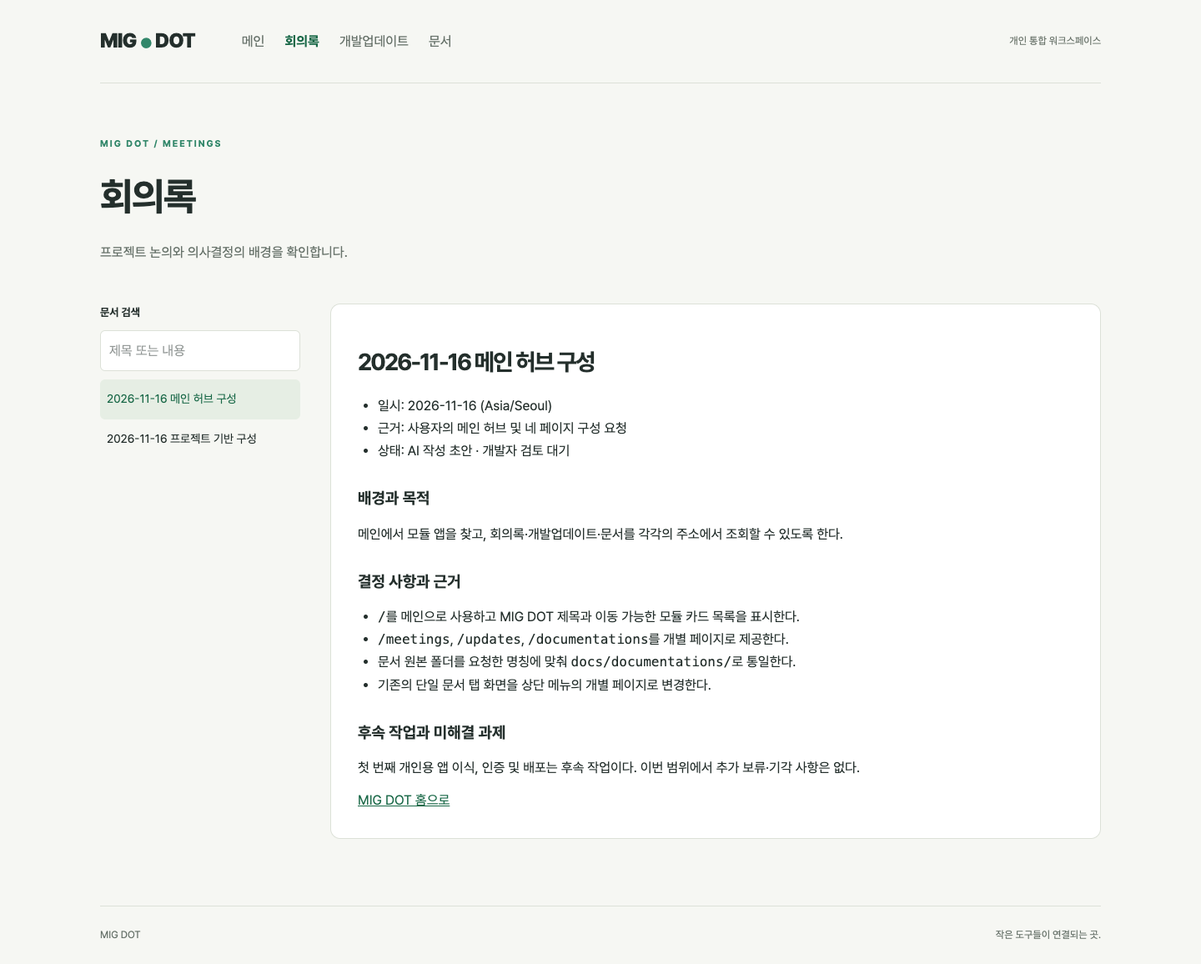
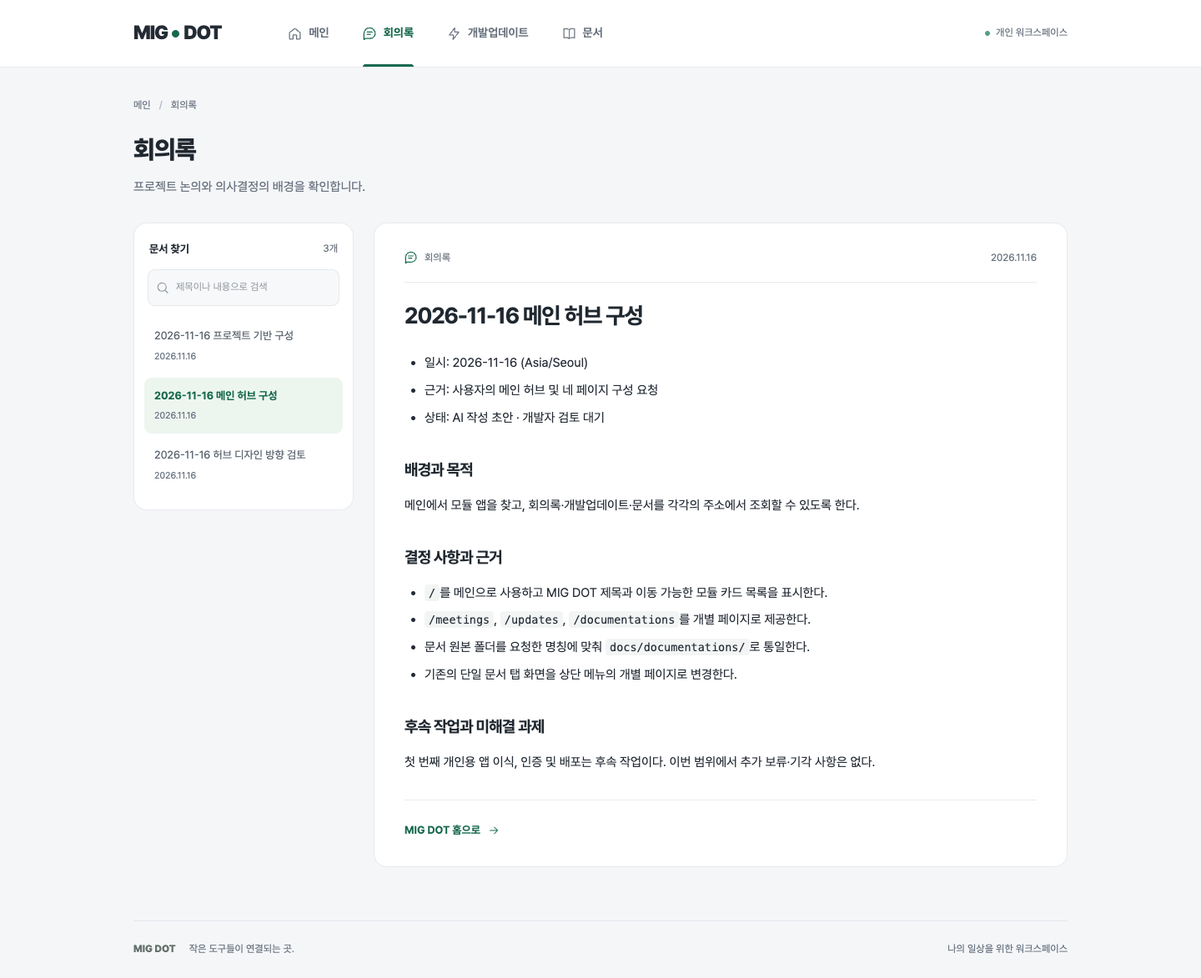
STYLE 허브 스타일 개선

diff --git a/src/styles.css b/src/styles.css
@@ -1,5 +1,10 @@
 @import "tailwindcss";
-:root{font-family:Inter,Pretendard,-apple-system,BlinkMacSystemFont,"Segoe UI",sans-serif;color:#242f2c;background:#f6f7f3;font-synthesis:none;line-height:1.7}*{box-sizing:border-box}body{margin:0}a{color:inherit}button,input{font:inherit}button,a{touch-action:manipulation}button{cursor:pointer}a:focus-visible,button:focus-visible,input:focus-visible{outline:3px solid #32876a;outline-offset:4px}.app{max-width:1280px;margin:auto;padding:0 40px}header{display:flex;align-items:center;gap:56px;min-height:100px;border-bottom:1px solid #dce1d8}.brand{font-size:24px;font-weight:850;letter-spacing:-1px;text-decoration:none}.brand span{color:#32876a;margin:0 5px;font-size:15px}nav{display:flex;gap:24px}nav a{text-decoration:none;color:#67726a}nav a.active{color:#196847;font-weight:700}.workspace-label{margin-left:auto;font-size:12px;color:#6b756c}main{min-height:76vh;padding:64px 0 80px}.eyebrow{font-size:11px;letter-spacing:2px;font-weight:700;color:#32876a}h1{font-size:clamp(28px,4vw,46px);font-weight:700;letter-spacing:-1.8px;margin:14px 0}h2{font-size:19px;font-weight:650}h3{font-size:23px;font-weight:650;margin:24px 0 8px}.intro{color:#67726a;margin-bottom:48px}.section-heading{display:flex;justify-content:space-between;align-items:center;margin-bottom:18px}.section-heading span{font-size:12px;color:#6b756c}.card{display:block;border:1px solid #dce1d8;background:white;padding:30px;text-decoration:none;border-radius:12px}.card[href]:hover{border-color:#32876a}.card p{color:#67726a;font-size:14px}.muted{background:transparent;border-style:dashed}.badge{font-size:11px;font-weight:700;color:#277155;background:#eaf2eb;padding:5px 9px;border-radius:4px}.status{margin-top:48px;padding-top:24px;border-top:1px solid #dce1d8}.status p{font-size:14px;color:#67726a}footer{display:flex;justify-content:space-between;border-top:1px solid #dce1d8;padding:24px 0;font-size:12px;color:#67726a}.tabs{flex-wrap:wrap;border-bottom:1px solid #dce1d8;margin-bottom:28px;gap:12px}.tabs button{padding:12px;border:0;background:transparent;color:#67726a}.tabs button[aria-pressed=true]{color:#196847;border-bottom:2px solid #196847}.reports{display:grid;grid-template-columns:240px minmax(0,1fr);gap:36px}aside label{display:block;font-size:13px;font-weight:650}input{width:100%;padding:10px;border:1px solid #dce1d8;background:white;border-radius:6px;margin:10px 0}aside ul{padding:0;list-style:none}aside button{text-align:left;background:transparent;border:0;padding:12px 8px;width:100%;font-size:14px}aside button[aria-current=page]{background:#e6eee4;color:#196847;border-radius:6px}.markdown{background:white;border:1px solid #dce1d8;border-radius:12px;padding:32px;overflow-wrap:anywhere;min-width:0}.markdown h1{font-size:28px}.markdown h2{margin:28px 0 12px}.markdown p{margin:12px 0}.markdown ul,.markdown ol{padding-left:24px;list-style:revert}.markdown pre{overflow:auto;background:#f6f7f3;padding:16px}.markdown a{color:#196847;text-decoration:underline}.markdown table{display:block;overflow:auto;border-collapse:collapse}.markdown th,.markdown td{padding:8px;border:1px solid #dce1d8}@media(max-width:700px){.app{padding:0 20px}header{gap:24px;flex-wrap:wrap;padding:20px 0}.workspace-label{display:none}main{padding-top:36px}.reports{grid-template-columns:1fr}.markdown{padding:20px}nav{gap:16px}footer span{display:none}}
 
-@media(max-width:900px){header{gap:24px;flex-wrap:wrap;padding:20px 0}.workspace-label{display:none}}
-@media(max-width:440px){header nav{width:100%;justify-content:space-between;gap:8px;font-size:14px}}
+:root{font-family:Pretendard,-apple-system,BlinkMacSystemFont,"Segoe UI",sans-serif;color:#242b35;background:#f5f6f8;font-synthesis:none;line-height:1.65;--green:#17694e;--muted:#697380;--border:#e7eaee;--surface:#fff}
+*{box-sizing:border-box}body{margin:0}a{color:inherit;text-decoration:none}button,input{font:inherit}button,a{touch-action:manipulation}button{cursor:pointer}svg{flex-shrink:0}a:focus-visible,button:focus-visible,input:focus-visible{outline:3px solid #32876a;outline-offset:4px}h1,h2,h3,p{margin:0}h1,h2,h3{color:#202830;letter-spacing:-.04em}h2{font-size:20px;font-weight:700}h3{font-size:17px;font-weight:650}.skip-link{position:fixed;top:-60px;left:20px;z-index:30;background:white;padding:12px}.skip-link:focus{top:10px}.site-header{background:var(--surface);border-bottom:1px solid var(--border)}.header-inner{max-width:1200px;padding:0 40px;margin:auto;height:80px;display:flex;align-items:center;gap:64px}.brand{display:flex;align-items:center;font-size:23px;font-weight:850;letter-spacing:-1.1px}.brand-dot{width:9px;height:9px;background:var(--green);border-radius:50%;margin:0 5px}.site-header nav{display:flex;height:100%;gap:8px}.site-header nav a{display:flex;align-items:center;gap:8px;position:relative;padding:0 16px;color:#68727e;font-size:14px;font-weight:550}.site-header nav a:hover{color:var(--green)}.site-header nav a.active{color:var(--green);font-weight:700}.site-header nav a.active:after{content:"";position:absolute;height:3px;left:16px;right:16px;bottom:0;background:var(--green);border-radius:3px 3px 0 0}.site-header nav svg{width:17px;height:17px}.workspace-label{display:flex;align-items:center;gap:7px;margin-left:auto;white-space:nowrap;color:var(--muted);font-size:12px}.workspace-label>span{height:6px;width:6px;border-radius:50%;background:#51a381}.main-container{max-width:1200px;padding:36px 40px 64px;margin:auto;min-height:calc(100vh - 161px)}.welcome{position:relative;overflow:hidden;display:flex;justify-content:space-between;align-items:center;background:#eaf2ee;border:1px solid #e1ebe5;border-radius:20px;padding:32px 36px;margin-bottom:36px}.eyebrow{font-size:12px;color:var(--green);font-weight:650;letter-spacing:.02em}.welcome h1{font-size:34px;letter-spacing:-1.2px;font-weight:750;margin:6px 0 8px}.welcome>div>p:last-child{font-size:15px;color:#5f7168}.dot-art{display:grid;grid-template-columns:repeat(3,18px);gap:12px;margin-right:36px;transform:rotate(-12deg)}.dot-art i{width:18px;height:18px;background:#b9d5c5;border-radius:50%}.dot-art i:nth-child(3n){background:#d2e3d8}.dot-art i:nth-child(5){background:var(--green)}.section-heading{display:flex;justify-content:space-between;align-items:center;gap:16px;margin-bottom:18px}.section-heading p{font-size:14px;color:var(--muted);margin-top:3px}.count{font-size:12px;color:#65716b;background:#e8ece9;border-radius:20px;padding:3px 10px}.apps-section{margin-bottom:34px}.empty-apps{display:flex;align-items:center;gap:20px;border:1px dashed #d3dcd6;border-radius:16px;padding:28px;background:#fafbfc}.empty-icon{display:grid;place-items:center;flex-shrink:0;width:56px;height:56px;background:#eaf0ec;border-radius:16px;color:#62816e}.empty-icon svg{width:24px;height:24px}.empty-apps h3{font-size:16px}.empty-apps p{font-size:14px;color:var(--muted);margin-top:4px}.text-link{display:inline-flex;align-items:center;gap:8px;font-size:13px;font-weight:650;color:var(--green);white-space:nowrap}.text-link:hover{text-decoration:underline}.text-link svg{width:16px;height:16px}.empty-apps>.text-link{margin-left:auto}.shortcut-grid{display:grid;grid-template-columns:repeat(3,minmax(0,1fr));gap:16px}.card{position:relative;background:var(--surface);border:1px solid var(--border);border-radius:16px;transition:border-color .16s,box-shadow .16s}.shortcut{padding:24px}.shortcut:hover{border-color:#9bbcac;box-shadow:0 6px 18px #203c2e08}.module-icon{display:grid;place-items:center;width:42px;height:42px;border-radius:12px;margin-bottom:18px;background:#e9f2ee;color:#277658}.updates .module-icon{background:#edf0ff;color:#6378b3}.documentations .module-icon{background:#f5eee3;color:#936c38}.shortcut h3{margin-bottom:5px}.shortcut p{font-size:13px;color:var(--muted);padding-right:12px;line-height:1.7}.shortcut>svg{position:absolute;right:24px;top:34px;color:#9aa3ad;width:18px}.recent-section{margin-top:34px}.recent-list{background:white;border:1px solid var(--border);border-radius:16px;overflow:hidden}.recent-list>a{display:flex;align-items:center;gap:18px;min-height:67px;padding:16px 24px}.recent-list>a+a{border-top:1px solid #f0f2f4}.recent-list>a:hover{background:#fafcfb}.record-type{min-width:65px;font-size:11px;font-weight:650;color:#5c7366;background:#edf3ee;border-radius:5px;padding:3px 7px;text-align:center}.record-type.updates{background:#eff1fa;color:#6678a5}.record-title{font-size:14px;font-weight:550;overflow:hidden;text-overflow:ellipsis;white-space:nowrap}.recent-list time{margin-left:auto;color:var(--muted);font-size:12px;white-space:nowrap}.recent-list svg{color:#a0a7af;width:16px;height:16px}footer{display:flex;align-items:center;gap:16px;max-width:1120px;margin:0 auto;border-top:1px solid #e1e5ea;padding:24px 0;color:var(--muted);font-size:12px}.footer-brand{font-weight:800;color:#64716b}.footer-note{margin-left:auto}.breadcrumb{display:flex;gap:10px;font-size:12px;color:var(--muted);margin-bottom:18px}.breadcrumb a:hover{color:var(--green)}.breadcrumb>span{color:#b2b8c0}.page-title{font-size:30px;font-weight:750;letter-spacing:-1px}.intro{font-size:15px;color:var(--muted);margin:8px 0 30px}.reports{display:grid;grid-template-columns:264px minmax(0,1fr);gap:24px;align-items:start}.reports aside{background:white;border:1px solid var(--border);border-radius:16px;padding:20px 12px}.list-heading{display:flex;align-items:center;justify-content:space-between;padding:0 6px;font-size:13px;font-weight:650}.list-heading>span{font-size:12px;color:var(--muted);font-weight:400}.search-field{display:flex;align-items:center;gap:8px;border:1px solid #e6e9ed;background:#f7f8fa;border-radius:9px;margin:14px 4px;color:#8a949d;padding:0 10px}.search-field svg{width:15px;height:15px}.search-field input{width:100%;min-width:0;border:0;background:transparent;padding:11px 0;outline-offset:1px;font-size:12px;color:#3d4750}.reports aside ul{padding:0;list-style:none;margin:0}.reports aside li+li{margin-top:4px}.reports aside button{display:flex;flex-direction:column;gap:5px;width:100%;text-align:left;border:0;background:transparent;border-radius:9px;padding:12px;font-size:13px;line-height:1.6;color:#59636e}.reports aside button:hover{background:#f5f8f6}.reports aside button[aria-current=page]{background:#edf5ef;color:var(--green);font-weight:650}.reports aside time{font-size:11px;font-weight:400;color:var(--muted)}.markdown{background:white;border:1px solid var(--border);border-radius:16px;padding:30px 36px;overflow-wrap:anywhere;min-width:0;font-size:15px;line-height:1.85}.document-meta{display:flex;justify-content:space-between;align-items:center;color:var(--muted);font-size:12px;margin-bottom:20px;padding-bottom:18px;border-bottom:1px solid var(--border)}.document-meta>span{display:flex;align-items:center;gap:8px}.document-meta svg{width:16px;height:16px;color:var(--green)}.markdown h1{font-size:27px;font-weight:700;line-height:1.45;margin:10px 0 24px}.markdown h2{margin:30px 0 12px;font-size:19px;font-weight:650}.markdown h3{margin:20px 0 10px}.markdown p{margin:12px 0}.markdown ul,.markdown ol{padding-left:24px;list-style:revert;margin:12px 0}.markdown li+li{margin-top:5px}.markdown pre{overflow:auto;background:#f5f7f8;border:1px solid #edf0f2;border-radius:9px;padding:16px;font-size:13px;margin:16px 0}.markdown :not(pre)>code{background:#f2f5f4;padding:2px 5px;border-radius:4px;font-size:.9em}.markdown a{color:var(--green);text-decoration:underline;text-underline-offset:3px}.markdown table{display:block;overflow:auto;border-collapse:collapse;font-size:14px;margin:16px 0}.markdown th,.markdown td{padding:10px;border:1px solid var(--border)}.markdown th{background:#f7f9f8}.markdown blockquote{border-left:3px solid #b5cebe;padding-left:16px;color:var(--muted)}.markdown hr{border:0;border-top:1px solid var(--border);margin:24px 0}.document-footer{border-top:1px solid var(--border);padding-top:22px;margin-top:30px}.markdown .text-link{text-decoration:none}.document-toggle{display:none}.no-results{padding:20px 10px;color:var(--muted);font-size:14px}.not-found{padding:64px 0}.not-found h1{font-size:30px;margin:12px 0 24px}
+@media(min-width:1000px){.reports aside{position:sticky;top:24px;max-height:calc(100vh - 48px);overflow-y:auto}}
+@media(max-width:1100px){.workspace-label{display:none}.header-inner{gap:40px}footer{margin:0 40px}}
+@media(max-width:760px){.header-inner{height:68px;padding:0 22px}.site-header nav{position:fixed;z-index:20;bottom:0;left:0;right:0;display:grid;grid-template-columns:repeat(4,1fr);height:auto;gap:0;background:#fffffffa;border-top:1px solid var(--border);padding:8px 8px calc(8px + env(safe-area-inset-bottom))}.site-header nav a{flex-direction:column;gap:4px;font-size:11px;padding:5px 0}.site-header nav a.active:after{display:none}.site-header nav svg{width:21px;height:21px}.site-header nav a.active svg{stroke-width:2}.main-container{padding:24px 20px 40px;min-height:calc(100vh - 230px)}.welcome{padding:24px;margin-bottom:28px;border-radius:16px}.welcome h1{font-size:30px}.welcome>div>p:last-child{font-size:13px;max-width:220px}.dot-art{grid-template-columns:repeat(3,9px);gap:7px;margin-right:0;margin-left:12px}.dot-art i{width:9px;height:9px}.eyebrow{font-size:11px}h2{font-size:18px}.section-heading{margin-bottom:14px}.section-heading p{font-size:12px}.empty-apps{flex-wrap:wrap;padding:20px;gap:14px}.empty-icon{width:42px;height:42px;border-radius:12px}.empty-apps>div{flex:1;min-width:180px}.empty-apps h3{font-size:14px}.empty-apps p{font-size:12px}.empty-apps>.text-link{margin-left:56px}.apps-section{margin-bottom:28px}.shortcut-grid{grid-template-columns:1fr;gap:10px}.shortcut{display:grid;grid-template-columns:42px 1fr 18px;column-gap:14px;padding:18px 20px}.module-icon{grid-row:1/3;margin:0;align-self:center}.shortcut h3{font-size:15px;margin:0}.shortcut p{grid-column:2;font-size:12px;padding:0}.shortcut>svg{position:static;grid-column:3;grid-row:1/3;align-self:center}.recent-section{margin-top:28px}.recent-section .section-heading .text-link{font-size:11px;gap:3px}.recent-list>a{gap:10px;padding:15px 16px;flex-wrap:wrap}.record-type{min-width:55px;font-size:10px}.record-title{font-size:12px;flex:1;min-width:0}.recent-list time{font-size:10px;margin-left:65px}.recent-list svg{display:none}footer{margin:0 20px;padding:20px 0 104px;font-size:10px;gap:12px}.footer-note{display:none}.breadcrumb{margin-bottom:14px}.page-title{font-size:28px}.intro{font-size:14px;margin-bottom:22px}.reports{grid-template-columns:1fr;gap:14px}.document-toggle{display:flex;align-items:center;gap:8px;width:100%;border:1px solid var(--border);background:white;border-radius:10px;padding:12px 16px;font-size:13px;color:var(--green);margin-bottom:12px}.document-toggle>span{color:var(--muted);font-size:12px}.document-toggle>svg:last-child{margin-left:auto;transition:transform .16s}.document-toggle[aria-expanded=true]>svg:last-child{transform:rotate(180deg)}.reports aside{display:none}.reports.list-open aside{display:block}.markdown{padding:22px;font-size:14px;line-height:1.9}.markdown h1{font-size:23px}.markdown h2{font-size:18px}.document-meta{font-size:11px}.markdown pre{font-size:12px}.search-field input{font-size:14px}.not-found h1{font-size:24px}}
+@media(prefers-reduced-motion:reduce){*{transition:none!important;scroll-behavior:auto!important}}
+
+.shortcut p,.empty-apps p,.welcome p{word-break:keep-all;overflow-wrap:anywhere}

diff --git a/src/shell/App.tsx b/src/shell/App.tsx
@@ -2,16 +2,32 @@ import { Suspense } from 'react'
 import { Link, NavLink, Route, Routes, useLocation } from 'react-router-dom'
 import { modules } from './modules'
 import { ModuleBoundary } from '../shared/ModuleBoundary'
+import { Icon } from '../shared/Icon'
+import { documents } from '../shared/documents/catalog'
 
 function Home() {
-  return <><p className="eyebrow">PERSONAL WORKSPACE / 01</p><h1>MIG DOT</h1><p className="intro">필요한 앱을 연결하고, 만드는 과정을 기록합니다.</p>
-    <div className="section-heading"><h2>모듈 앱 목록</h2><span>{modules.length}개의 모듈</span></div>
-    <div className="grid gap-5 md:grid-cols-3">{modules.map(module => <Link className="card" key={module.id} to={module.path}><span className="badge">사용 가능</span><h3>{module.title} ↗</h3><p>{module.description}</p></Link>)}
-    </div></>
-
+  const recent = documents.filter(doc => doc.category === 'meetings' || doc.category === 'updates').slice(0, 4)
+  return <>
+    <section className="welcome">
+      <div><p className="eyebrow">나만의 도구, 하나의 공간</p><h1>MIG DOT</h1><p>일상을 위한 앱과 만드는 과정의 기록을 한곳에서.</p></div>
+      <div className="dot-art" aria-hidden="true"><i /><i /><i /><i /><i /><i /><i /><i /><i /></div>
+    </section>
+    <section className="apps-section" aria-labelledby="apps-title">
+      <div className="section-heading"><div><h2 id="apps-title">내 앱</h2><p>필요한 도구를 바로 시작하세요.</p></div><span className="count">0개</span></div>
+      <div className="empty-apps"><span className="empty-icon"><Icon name="grid" /></span><div><h3>첫 번째 앱을 연결할 공간이에요</h3><p>개인용 앱을 이식하면 여기에 표시됩니다.</p></div><Link className="text-link" to="/documentations">시작 안내 <Icon name="arrow" /></Link></div>
+    </section>
+    <section aria-labelledby="records-title">
+      <div className="section-heading"><div><h2 id="records-title">기록과 안내</h2><p>결정의 배경부터 지금의 사용법까지.</p></div></div>
+      <div className="shortcut-grid">{modules.map(module => <Link className={`card shortcut ${module.id}`} key={module.id} to={module.path}><span className="module-icon"><Icon name={module.id} /></span><h3>{module.title}</h3><p>{module.description}</p><Icon name="arrow" /></Link>)}</div>
+    </section>
+    <section className="recent-section" aria-labelledby="recent-title">
+      <div className="section-heading"><div><h2 id="recent-title">최근 기록</h2><p>조금씩 쌓이는 MIG DOT의 변화</p></div><Link className="text-link" to="/updates">업데이트 보기 <Icon name="arrow" /></Link></div>
+      <div className="recent-list">{recent.map(doc => <Link key={doc.path} to={`/${doc.category}?${new URLSearchParams({ doc: doc.path })}`}><span className={`record-type ${doc.category}`}>{doc.category === 'meetings' ? '회의록' : '업데이트'}</span><span className="record-title">{doc.title}</span><time dateTime={doc.date}>{doc.date?.replaceAll('-', '.')}</time><Icon name="arrow" /></Link>)}</div>
+    </section>
+  </>
 }
 
 export default function App() {
   const location = useLocation()
-  return <div className="app"><header><Link className="brand" to="/">MIG<span>●</span>DOT</Link><nav aria-label="주 메뉴"><NavLink to="/" end>메인</NavLink>{modules.map(module => <NavLink key={module.id} to={module.path}>{module.title}</NavLink>)}</nav><span className="workspace-label">개인 통합 워크스페이스</span></header><main id="main"><Routes><Route path="/" element={<Home />} />{modules.map(({ id, path, component: Page }) => <Route key={id} path={path} element={<ModuleBoundary key={location.pathname}><Suspense fallback={<p role="status">모듈을 불러오는 중입니다…</p>}><Page /></Suspense></ModuleBoundary>} />)}<Route path="*" element={<><h1>페이지를 찾을 수 없습니다.</h1><Link to="/">홈으로 이동</Link></>} /></Routes></main><footer>MIG DOT <span>작은 도구들이 연결되는 곳.</span></footer></div>
+  return <div className="app"><a className="skip-link" href="#main">본문으로 이동</a><header className="site-header"><div className="header-inner"><Link className="brand" to="/" aria-label="MIG DOT 메인">MIG<span className="brand-dot" />DOT</Link><nav aria-label="주 메뉴"><NavLink to="/" end><Icon name="home" /><span>메인</span></NavLink>{modules.map(module => <NavLink key={module.id} to={module.path}><Icon name={module.id} /><span>{module.title}</span></NavLink>)}</nav><span className="workspace-label"><span />개인 워크스페이스</span></div></header><main id="main" className="main-container"><Routes><Route path="/" element={<Home />} />{modules.map(({ id, path, component: Page }) => <Route key={id} path={path} element={<ModuleBoundary key={location.pathname}><Suspense fallback={<p role="status">모듈을 불러오는 중입니다…</p>}><Page /></Suspense></ModuleBoundary>} />)}<Route path="*" element={<section className="not-found"><p className="eyebrow">404</p><h1>페이지를 찾을 수 없습니다.</h1><Link className="text-link" to="/">메인으로 이동 <Icon name="arrow" /></Link></section>} /></Routes></main><footer><span className="footer-brand">MIG DOT</span><span>작은 도구들이 연결되는 곳.</span><span className="footer-note">나의 일상을 위한 워크스페이스</span></footer></div>
 }

diff --git a/src/modules/reports/ReportsPage.tsx b/src/modules/reports/ReportsPage.tsx
@@ -3,18 +3,23 @@ import { Link, useLocation, useSearchParams } from 'react-router-dom'
 import Markdown from 'react-markdown'
 import remarkGfm from 'remark-gfm'
 import { modules } from '../../shell/modules'
-
-const sources = import.meta.glob('/docs/**/*.md', { query: '?raw', import: 'default', eager: true }) as Record<string, string>
-const documents = Object.entries(sources).map(([path, content]) => ({ path, content, category: path.split('/')[2], title: content.match(/^# (.+)$/m)?.[1] ?? path }))
+import { documents } from '../../shared/documents/catalog'
+import { Icon } from '../../shared/Icon'
 
 export default function ReportsPage() {
   const [params, setParams] = useSearchParams()
   const [query, setQuery] = useState('')
+  const [listOpen, setListOpen] = useState(false)
   const { pathname } = useLocation()
   const page = modules.find(module => module.path === pathname.replace(/\/$/, ''))!
   const category = page.id
-  const matches = documents.filter(doc => doc.category === category && `${doc.title} ${doc.content}`.toLocaleLowerCase().includes(query.toLocaleLowerCase()))
+  const all = documents.filter(doc => doc.category === category)
+  const matches = all.filter(doc => `${doc.title} ${doc.content}`.toLocaleLowerCase().includes(query.toLocaleLowerCase()))
   const selected = matches.find(doc => doc.path === params.get('doc')) ?? matches[0]
-  return <><p className="eyebrow">MIG DOT / {category.toUpperCase()}</p><h1>{page.title}</h1><p className="intro">{page.description}</p>
-    <div className="reports"><aside><label htmlFor="search">문서 검색</label><input id="search" type="search" placeholder="제목 또는 내용" value={query} onChange={e => setQuery(e.target.value)} /><ul>{matches.map(doc => <li key={doc.path}><button aria-current={selected?.path === doc.path ? 'page' : undefined} onClick={() => setParams({ doc: doc.path })}>{doc.title}</button></li>)}</ul>{matches.length === 0 && <p>검색 결과가 없습니다.</p>}</aside><article className="markdown">{selected ? <Markdown remarkPlugins={[remarkGfm]}>{selected.content}</Markdown> : <p>표시할 문서가 없습니다.</p>}<Link to="/">MIG DOT 홈으로</Link></article></div></>
+  return <>
+    <p className="breadcrumb"><Link to="/">메인</Link><span>/</span>{page.title}</p>
+    <h1 className="page-title">{page.title}</h1><p className="intro">{page.description}</p>
+    <button className="document-toggle" aria-expanded={listOpen} aria-controls="document-list" onClick={() => setListOpen(!listOpen)}><Icon name={category} />문서 목록 <span>{all.length}</span><Icon name="chevron" /></button>
+    <div className={`reports ${listOpen ? 'list-open' : ''}`}><aside id="document-list"><div className="list-heading"><label htmlFor="search">문서 찾기</label><span>{matches.length}개</span></div><div className="search-field"><Icon name="search" /><input id="search" type="search" placeholder="제목이나 내용으로 검색" value={query} onChange={e => setQuery(e.target.value)} /></div><ul>{matches.map(doc => <li key={doc.path}><button aria-label={doc.title} aria-current={selected?.path === doc.path ? 'page' : undefined} onClick={() => { setParams({ doc: doc.path }); setListOpen(false) }}><span>{doc.title}</span>{doc.date && <time dateTime={doc.date}>{doc.date.replaceAll('-', '.')}</time>}</button></li>)}</ul>{matches.length === 0 && <p className="no-results">검색 결과가 없습니다.</p>}</aside><article className="markdown">{selected ? <><div className="document-meta"><span><Icon name={category} />{page.title}</span>{selected.date && <time dateTime={selected.date}>{selected.date.replaceAll('-', '.')}</time>}</div><Markdown remarkPlugins={[remarkGfm]}>{selected.content}</Markdown></> : <div className="no-results"><Icon name="search" /><h2>표시할 문서가 없습니다.</h2><p>다른 검색어로 찾아보세요.</p></div>}<div className="document-footer"><Link className="text-link" to="/">MIG DOT 홈으로 <Icon name="arrow" /></Link></div></article></div>
+  </>
 }

diff --git a/tests/hub.spec.ts b/tests/hub.spec.ts
@@ -15,6 +15,8 @@ test('허브와 문서 페이지의 이동·검색·새로고침', async ({ page
   await page.goto('/')
   await expect(page.getByRole('heading', { name: 'MIG DOT', exact: true })).toBeVisible()
   await expect(page.locator('main a.card')).toHaveCount(3)
+  await expect(page.getByText('첫 번째 앱을 연결할 공간이에요')).toBeVisible()
+  await expect(page.locator('.recent-list a')).toHaveCount(4)
   await page.screenshot({ path: 'docs/previews/hub-desktop.png', fullPage: true })
   for (const item of pages) {
     await page.locator('main a.card').filter({ hasText: item.title }).click()
@@ -52,4 +54,25 @@ test('모바일에서 모든 메뉴와 문서가 화면 안에 표시된다', as
     expect(await page.evaluate(() => document.documentElement.scrollWidth <= window.innerWidth)).toBe(true)
     await page.screenshot({ path: `docs/previews/${item.path === '/' ? 'hub' : item.path.slice(1)}-mobile.png`, fullPage: true })
   }
+})
+
+
+test('최근 기록의 본문 이동과 모바일 문서 목록 접기', async ({ page }) => {
+  await page.goto('/')
+  const record = page.locator('.recent-list a').first()
+  const title = await record.locator('.record-title').innerText()
+  await record.click()
+  await expect(page.locator('article.markdown h1')).toHaveText(title)
+  await page.setViewportSize({ width: 390, height: 844 })
+  await page.goto('/documentations')
+  const toggle = page.getByRole('button', { name: '문서 목록' })
+  await expect(page.locator('#document-list')).toBeHidden()
+  await toggle.click()
+  await expect(toggle).toHaveAttribute('aria-expanded', 'true')
+  await page.getByRole('searchbox').fill('MIG DOT 시작하기')
+  await page.getByRole('button', { name: 'MIG DOT 시작하기', exact: true }).click()
+  await expect(page.locator('#document-list')).toBeHidden()
+  await expect(page.locator('article.markdown h1')).toHaveText('MIG DOT 시작하기')
+  await page.getByRole('navigation', { name: '주 메뉴' }).getByRole('link', { name: '메인', exact: true }).click()
+  await expect(page).toHaveURL('/')
 })

diff --git a/src/shared/Icon.tsx b/src/shared/Icon.tsx
@@ -1,0 +1,16 @@
+import type { CSSProperties } from 'react'
+
+const paths: Record<string, string> = {
+  home: 'M3 10 12 3l9 7v10a1 1 0 0 1-1 1h-5v-7H9v7H4a1 1 0 0 1-1-1Z',
+  meetings: 'M21 11.5a8.5 8.5 0 0 1-8.5 8.5H4l-2 2V11.5a9.5 9.5 0 0 1 19 0ZM7 9h9M7 13h6',
+  updates: 'm13 2-9 12h7l-1 8 10-13h-7Z',
+  documentations: 'M12 5C8 2 3 4 3 4v15s5-2 9 1c4-3 9-1 9-1V4s-5-2-9 1Zm0 0v15',
+  arrow: 'M5 12h14m-6-6 6 6-6 6',
+  grid: 'M3 3h7v7H3ZM14 3h7v7h-7ZM3 14h7v7H3ZM14 14h7v7h-7Z',
+  plus: 'M12 5v14M5 12h14',
+  search: 'M21 21l-5-5M18 10a8 8 0 1 1-16 0 8 8 0 0 1 16 0',
+  chevron: 'm6 9 6 6 6-6',
+}
+export function Icon({ name, style }: { name: string; style?: CSSProperties }) {
+  return <svg style={style} width="20" height="20" viewBox="0 0 24 24" fill="none" stroke="currentColor" strokeWidth="1.7" strokeLinecap="round" strokeLinejoin="round" aria-hidden="true"><path d={paths[name] ?? paths.grid} /></svg>
+}

diff --git a/src/shared/documents/catalog.ts b/src/shared/documents/catalog.ts
@@ -1,0 +1,9 @@
+const sources = import.meta.glob('/docs/**/*.md', { query: '?raw', import: 'default', eager: true }) as Record<string, string>
+
+export const documents = Object.entries(sources).map(([path, content]) => ({
+  path,
+  content,
+  category: path.split('/')[2],
+  title: content.match(/^# (.+)$/m)?.[1] ?? path,
+  date: path.match(/\d{4}-\d{2}-\d{2}/)?.[0],
+})).sort((a, b) => (b.date ?? '').localeCompare(a.date ?? '') || b.path.localeCompare(a.path))

diff --git a/docs/meetings/2026-11-16-hub-design-direction.md b/docs/meetings/2026-11-16-hub-design-direction.md
@@ -1,0 +1,51 @@
+# 2026-11-16 허브 디자인 방향 검토
+
+- 일시: 2026-11-16 (Asia/Seoul)
+- 상태: 사용자 화면 반영 요청으로 구현 진행 · 기록은 AI 작성 초안
+- 주제: 국내 다사용 서비스의 디자인 특성과 MIG DOT 적용 방향
+
+## 배경과 목적
+
+사용자는 허브의 전체 스타일을 정하기 위해 국내에서 사용량이 많은 웹·앱 서비스의 디자인 공통점 분석을 요청했다. 최초 조사 이후 사용자가 화면 반영을 요청하여 제안 방향으로 UI를 구현했다.
+
+## 조사 범위와 한계
+
+사용량의 근거는 모바일인덱스의 2026년 상반기 TOP100 및 2026년 10월 데이터 기반 11월 보고서를 참고했다. 이용자 수가 디자인의 우수성이나 인과관계를 입증하지는 않는다. 공식 디자인 시스템과 서비스 안내를 함께 검토했으며 로그인한 모든 앱 화면을 직접 실측한 조사는 아니다. 아래 적용 수치는 MIG DOT를 위한 제안이다.
+
+## 주요 검토 사항
+
+- 토스: 사용자가 얻는 가치와 쉬운 의사결정을 앞세우는 공식 원칙, 역할에 따라 색을 관리하는 디자인 시스템을 참고한다.
+- 네이버: 여러 서비스로 이동하는 허브 구조와 관심사별 정보 구획을 참고한다.
+- 당근: 컴포넌트·인터랙션·스타일의 공통 기준과 제목·본문의 역할 구분을 참고한다.
+- 카카오톡: 즐겨찾기와 목록 가독성 개선에서 반복 사용 경로의 중요성을 참고한다.
+- 흰색·중립색 기반, 글자 위계, 제한된 강조색, 반복되는 탐색 규칙을 적용 후보로 삼는다. 이 공통점은 자료를 바탕으로 한 디자인 해석이며 모든 화면에 동일하게 적용된다는 뜻은 아니다.
+
+## 제안 방향
+
+차분하고 친숙한 개인용 앱 허브를 제안한다. 앱 진입을 주된 과제로 두고 개발 기록 접근을 함께 제공한다.
+
+- 기존 `/`, `/meetings`, `/updates`, `/documentations` 경로 유지
+- 짧은 MIG DOT 헤더, 모든 페이지에서 일관된 네 개 메뉴
+- 메인은 개인용 앱 목록을 중심으로 구성하고 회의록·업데이트·문서는 보조 바로가기로 구분
+- 실제 앱이 없는 현재는 정직한 빈 상태 표시. 미구현 앱의 사용 가능 상태나 가짜 사용 기록은 표시하지 않음
+- 문서 메타데이터가 준비되면 실제 최신 기록을 메인 하단에 제공하는 방안 검토
+- 밝은 회색 바탕, 흰색 표면, 짙은 본문, 기존 녹색을 제한된 강조색으로 사용
+- 제목 28~32px, 본문 16px, 보조 정보 14px, 카드 모서리 16px를 초기 시안 값으로 제안
+- 데스크톱은 앱 카드 그리드, 모바일은 간결한 목록과 네 개 메뉴의 하단 탐색 구성을 검토
+- 문서 화면은 목록과 본문, 모바일에서는 문서 선택을 접을 수 있는 구성을 검토
+
+## 보류 및 후속 작업
+
+사용자의 화면 반영 요청을 근거로 밝은 배경, 녹색 강조, 앱 영역과 기록 구분, 모바일 하단 메뉴 및 문서 목록 접기를 적용했다. 앱별 아이콘·강조색, 모바일 하단 메뉴, 최신 기록 노출 범위는 시안에서 구체화한다. 실제 앱 이식 전 즐겨찾기·최근 사용·통합 검색은 필요성을 확인한 뒤 도입한다.
+
+## 참고 자료
+
+- [모바일인덱스 2026년 상반기 TOP100](https://www.igaworks.com/blog/2026-h1-mobileapp-top100)
+- [모바일인덱스 2026년 11월 보고서: 10월 데이터](https://www.igaworks.com/blog/mobileapp-chart-2611)
+- [토스: Value first, Cost later](https://toss.tech/article/21023)
+- [토스: Easy to answer](https://toss.tech/article/insurance-claim-process)
+- [토스: 컬러 시스템 개편](https://toss.tech/article/tds-color-system-update)
+- [당근 SEED](https://seed-design.io/)
+- [SEED Foundations](https://seed-design.io/foundations)
+- [네이버 홈](https://www.naver.com/)
+- [카카오톡 이용자 의견 반영 안내](https://www.kakaocorp.com/page/detail/12174?lang=ENG)

diff --git a/docs/updates/2026-11-16-hub-design.md b/docs/updates/2026-11-16-hub-design.md
@@ -1,0 +1,22 @@
+# 개인용 허브 디자인 적용
+
+- 변경일: 2026-11-16 (Asia/Seoul)
+- 버전: v0.1.0 · 커밋 전 작업
+- 대상: 공통 앱 셸, 메인 허브, 문서 조회
+- 상태: AI 작성 초안 · 개발자 검토 대기
+
+## 변경 사항
+
+밝은 회색 배경, 흰색 표면과 녹색 강조색으로 공통 스타일을 정리했다. 제목과 설명의 크기, 카드 모서리 및 간격을 통일하고 기능별 SVG 아이콘을 추가했다.
+
+메인은 개인용 앱 공간, 기록과 안내, 최근 기록으로 구성한다. 이식된 개인용 앱이 없으므로 빈 상태를 표시하며 가짜 앱이나 사용 기록을 만들지 않는다. 최근 기록은 실제 회의록·업데이트 Markdown을 날짜와 파일명 역순으로 정렬해 4개까지 표시하고 해당 본문으로 연결한다. 같은 날짜 내 파일명 정렬은 실제 작성 시간순을 의미하지 않는다.
+
+문서 화면은 검색 목록과 본문을 분리하고 날짜와 유형을 표시한다. 모바일에서는 하단 고정 메뉴 및 접을 수 있는 문서 목록으로 본문 공간을 확보한다. 원본 문서 수집과 정렬 코드는 공통 카탈로그로 모았다.
+
+## 호환성과 영향
+
+기존 네 개 경로 및 선택 문서 URL을 유지한다. 홈의 ‘시작 안내’는 문서 페이지로 이동한다. Supabase 인증이나 데이터 저장 기능은 추가하지 않았다.
+
+## 검증
+
+ESLint, 타입 검사 및 프로덕션 빌드가 통과했다. Chrome 데스크톱·모바일의 라우팅, 검색, 문서 선택 유지, 최근 기록 이동, 목록 접기 및 가로 넘침을 브라우저 테스트 3건이 모두 통과했다. 데스크톱 허브·문서 및 모바일 허브 스크린샷을 육안으로 확인했으며 결과 화면은 `docs/previews/`에 갱신했다.

diff --git a/docs/documentations/mig-dot/getting-started.md b/docs/documentations/mig-dot/getting-started.md
@@ -14,12 +14,12 @@ npm run dev
 
 ## 메인 허브와 경로
 
-- `/`: MIG DOT 제목과 모듈 앱 목록. 카드를 클릭하면 해당 페이지로 이동합니다.
+- `/`: MIG DOT 제목, 개인용 앱 영역, 기록과 안내 바로가기, 최근 기록을 표시합니다. 개인용 앱을 이식하기 전에는 빈 상태를 표시합니다. 최근 기록을 누르면 해당 문서 본문으로 이동합니다.
 - `/meetings`: `docs/meetings/`의 회의록 조회
 - `/updates`: `docs/updates/`의 개발업데이트 조회
 - `/documentations`: `docs/documentations/`의 사용 문서 조회
 
-모든 화면의 상단 메뉴에서 페이지를 전환할 수 있습니다. 각 문서 페이지에서 제목·본문을 검색하고 목록에서 문서를 선택합니다. 선택한 문서는 URL의 `doc` 매개변수로 유지됩니다.
+데스크톱에서는 상단 메뉴, 모바일에서는 하단 고정 메뉴로 페이지를 전환할 수 있습니다. 각 문서 페이지에서 제목·본문을 검색하고 목록에서 문서를 선택합니다. 모바일에서는 본문 위의 ‘문서 목록’을 눌러 검색과 목록을 펼칩니다. 문서를 선택하면 목록은 접힙니다. 선택한 문서는 URL의 `doc` 매개변수로 유지됩니다.
 
 ## 현재 제공하는 기능
 
